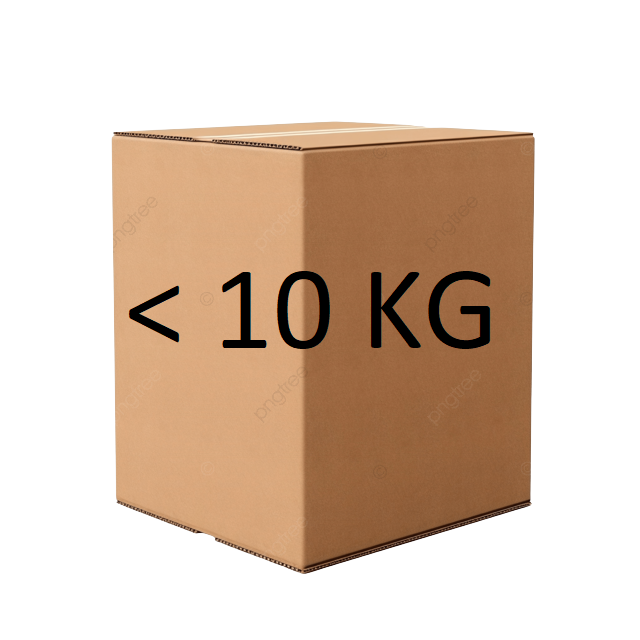
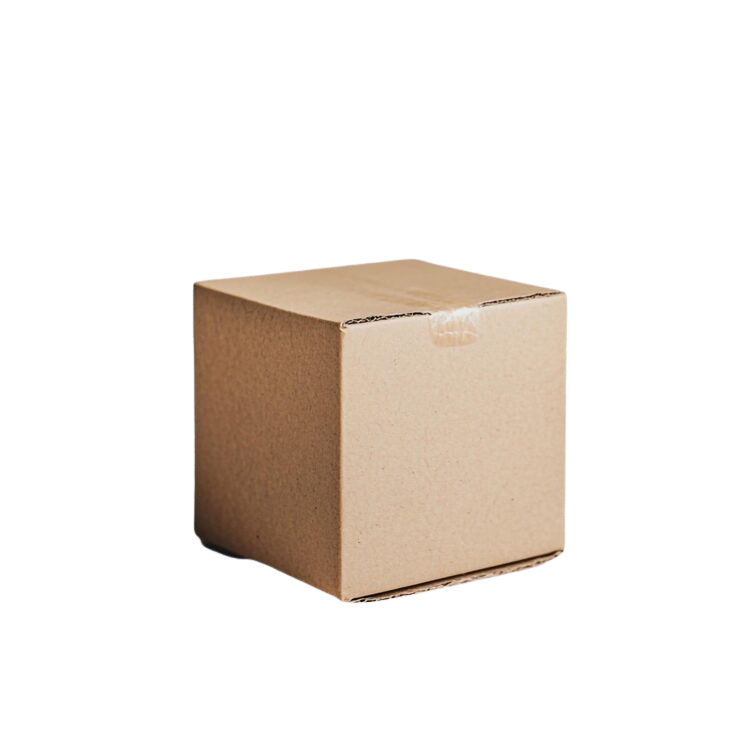
version finale

diff --git a/app.js b/app.js
@@ -36,7 +36,7 @@ document.querySelectorAll(".zone").forEach(zone=>{
     
 });
 
-document.querySelector(".Refresh").addEventListener("click",()=>{
+document.querySelector(".monbouton").addEventListener("click",()=>{
     location.reload();
 
 })

diff --git a/index.html b/index.html
@@ -17,7 +17,7 @@
 <div class="container">
   <hr>
   <div style="text-align:left;">
-    <button class="monbouton"><img src="images/renit.jpg" width="20" height="auto" ></button>
+    <button class="monbouton" style="background-color: #242F3D;" ><img src="images/renit.png" width="20" height="auto" ></button>
 
   </div>
   <h3 id="titre2">Colis à déplacer</h3>